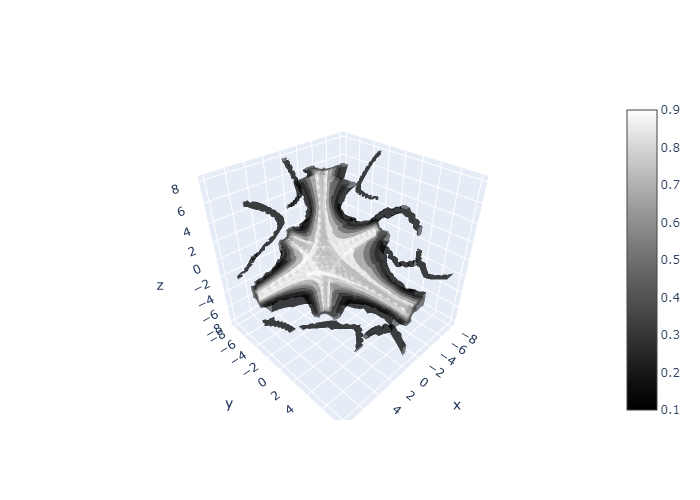
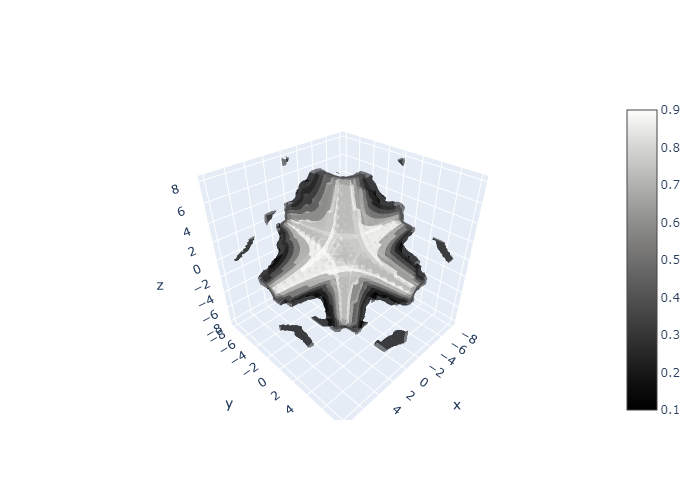
Adding 2D slices to examples page + link in README

Changed region(s): [[0.33, 0.3, 0.66, 0.72], [0.57, 0.3, 0.6, 0.33]]

diff --git a/images/examples.py b/images/examples.py
@@ -6,6 +6,7 @@ This script requires (in addition to volumentations requirements):
 import numpy as np
 from volumentations import *
 from plotly import graph_objects as go
+from plotly import express as px
 
 
 augmentations = [
@@ -13,7 +14,7 @@ augmentations = [
     ElasticTransform((.7, .71)),
     GlassBlur(),
     GridDistortion(distort_limit=.5),
-    GridDropout(holes_number_x=2, holes_number_y=2, holes_number_z=2, random_offset=True, fill_value=.5),
+    GridDropout(holes_number_x=3, holes_number_y=3, holes_number_z=3, random_offset=True, fill_value=.5),
     RandomGamma(gamma_limit=(70, 71)),
     RandomScale2(scale_limit=[1.5, 1.6]),
     RotatePseudo2D((1, 2), limit=(40, 41)),
@@ -35,6 +36,8 @@ fig = go.Figure(data=go.Isosurface(
     colorscale="gray"
 ))
 fig.write_image("images/original.png")
+fig = px.imshow(values[20], color_continuous_scale="gray", zmin=values[20].min(), zmax=values[20].max())
+fig.write_image("images/original_flat.png")
 
 for aug in augmentations:
     cube = aug(True, ["image"], image=values)["image"]
@@ -54,3 +57,7 @@ for aug in augmentations:
     name = aug.__class__.__name__
     print(f"images/{name}.png")
     fig.write_image(f"images/{name}.png")
+
+    fig = px.imshow(cube[20], color_continuous_scale="gray", zmin=values[20].min(), zmax=values[20].max())
+    print(f"images/{name}_flat.png")
+    fig.write_image(f"images/{name}_flat.png")

diff --git a/README.md b/README.md
@@ -17,7 +17,7 @@ Initially inspired by [albumentations](https://github.com/albumentations-team/al
 pip install volumentations-3D
 ```
 
-### Simple Example
+# Simple Example
 
 ```python
 from volumentations import *
@@ -62,8 +62,9 @@ img = aug_data['image']
 * Implemented multiple augmentations.
 * Approximation enhancements to be closer to Albumentations.
 
-### Implemented 3D augmentations
+# Implemented 3D augmentations
 
+Check the [EXAMPLES](EXAMPLES.md) page for visual demonstrations
 ```python
 CenterCrop
 ColorJitter
@@ -98,7 +99,7 @@ RotatePseudo2D
 Transpose
 ```
 
-### Speed table
+# Speed table
 
 Speed in seconds per one sample.
 
@@ -115,7 +116,7 @@ Speed in seconds per one sample.
 | RandomGamma | 0.0066 | 0.0211 | 0.0505 | 0.2654 |  0.3989 |
 | RandomScale | 0.0158 | 0.0518 | 0.1198 | 0.6391 | 0.9457 |
 
-## Citation
+# Citation
 
 For more details, please refer to the publication: https://doi.org/10.1016/j.compbiomed.2021.105089
 

diff --git a/EXAMPLES.md b/EXAMPLES.md
@@ -2,19 +2,28 @@
 $$ f(x, y, z) = \frac{\sin(xyz)}{xyz} $$
 # No Augmentation
 ![](images/original.png)
+![](images/original_flat.png)
 # Downscale
 ![](images/Downscale.png)
+![](images/Downscale_flat.png)
 # ElasticTransform
 ![](images/ElasticTransform.png)
+![](images/ElasticTransform_flat.png)
 # GlassBlur
 ![](images/GlassBlur.png)
+![](images/GlassBlur_flat.png)
 # GridDistortion
 ![](images/GridDistortion.png)
+![](images/GridDistortion_flat.png)
 # GridDropout
 ![](images/GridDropout.png)
+![](images/GridDropout_flat.png)
 # RandomGamma
 ![](images/RandomGamma.png)
+![](images/RandomGamma_flat.png)
 # RandomScale2
 ![](images/RandomScale2.png)
+![](images/RandomScale2_flat.png)
 # RotatePseudo2D
 ![](images/RotatePseudo2D.png)
+![](images/RotatePseudo2D_flat.png)
